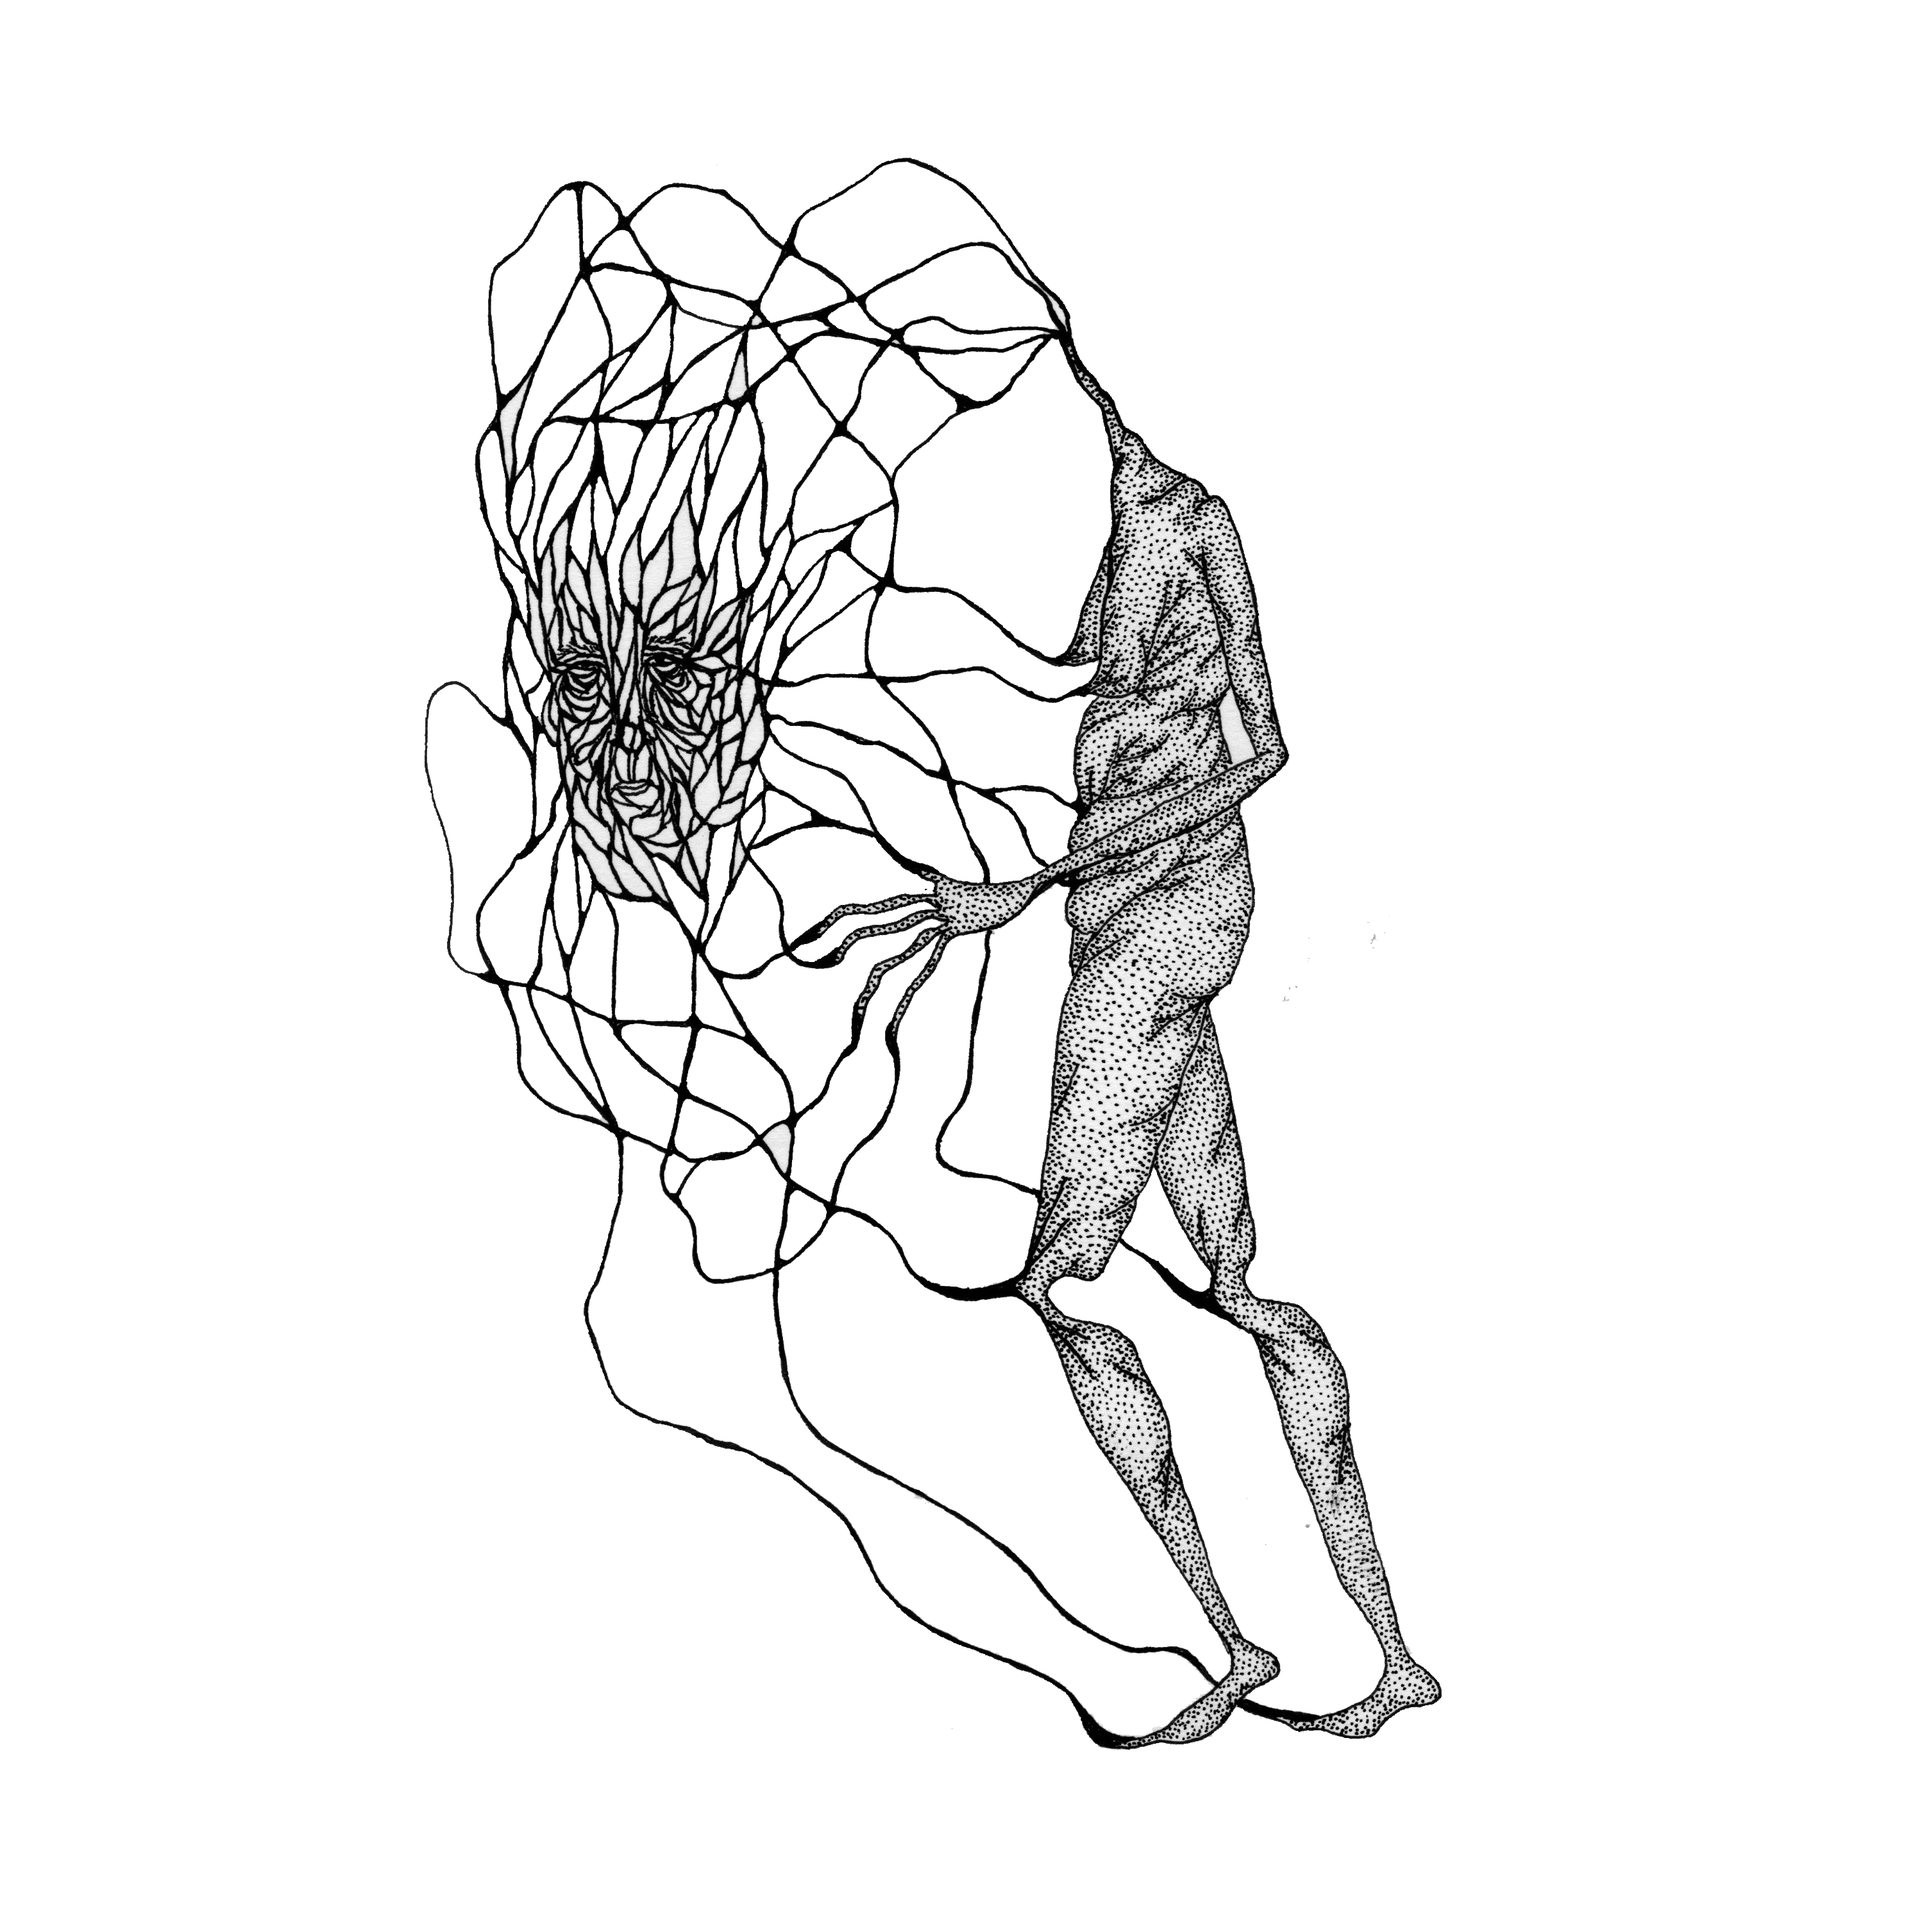
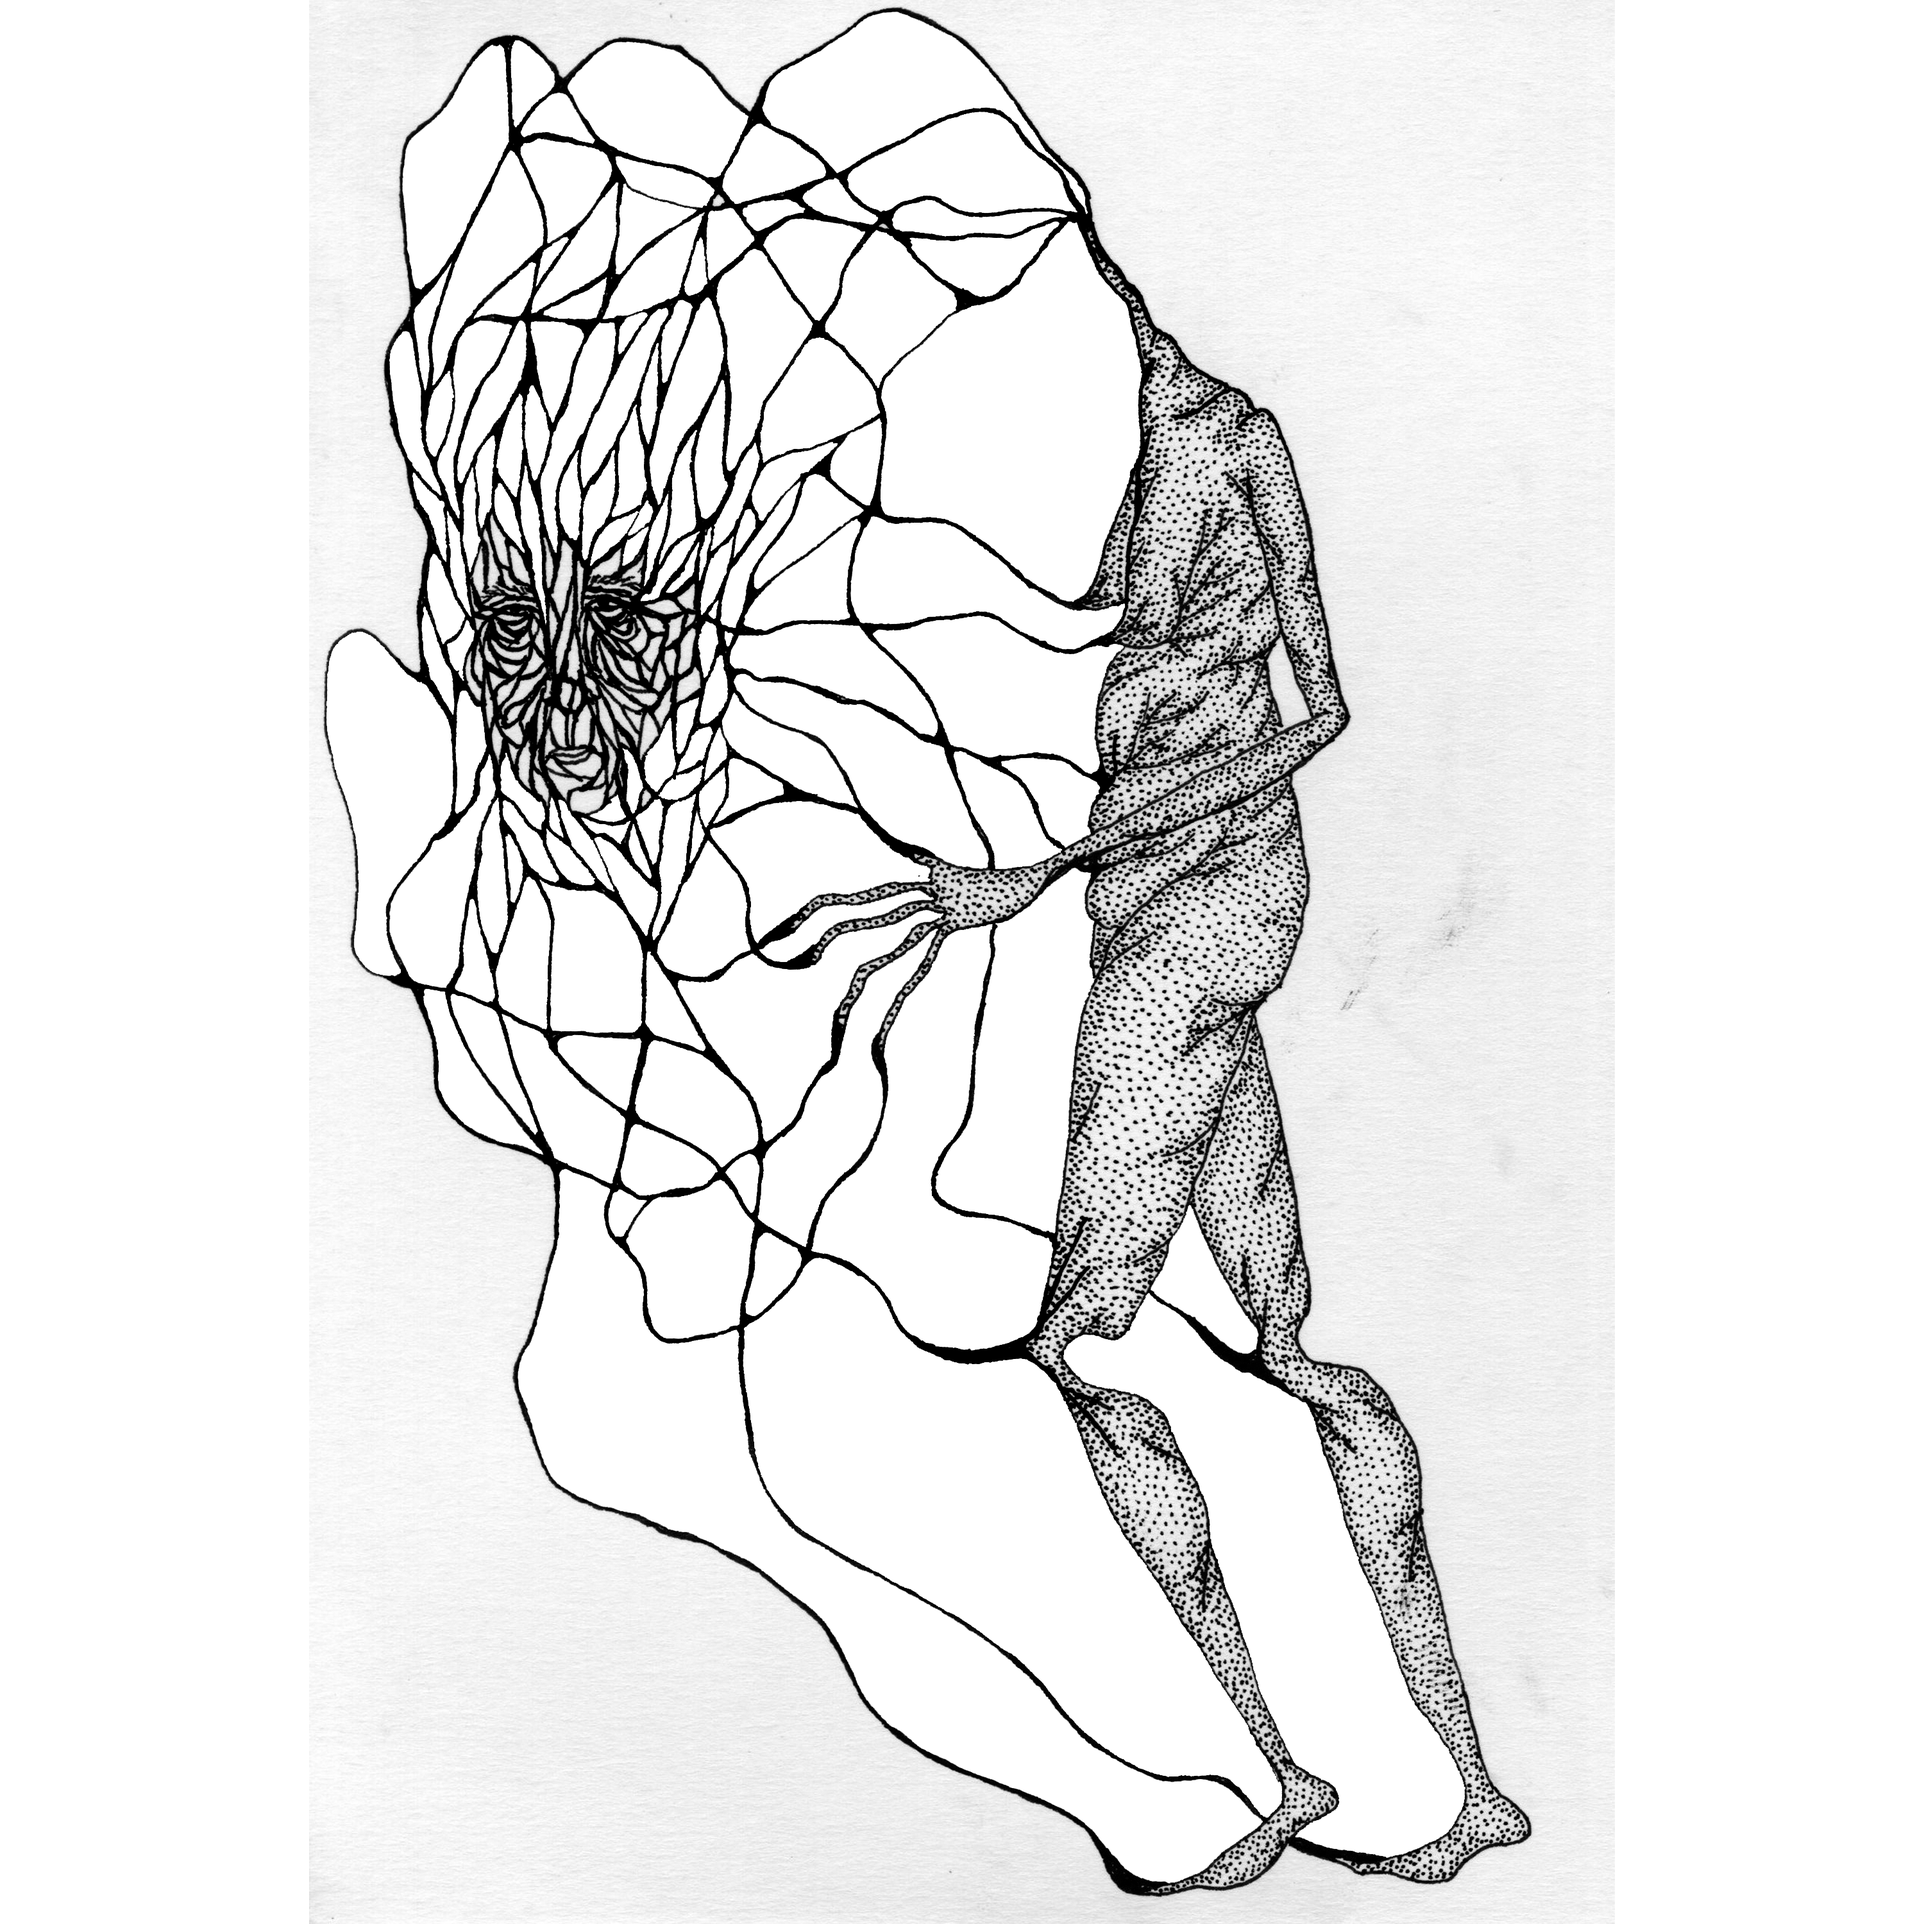
blackbordering a bit better

diff --git a/paint.js b/paint.js
@@ -5,8 +5,8 @@ let mouse = {
 window.addEventListener('mouseup', function (e) {
     mouse.x = e.x;
     mouse.y = e.y;
-    console.log(mouse.x + ", " + mouse.y);
 });
+
 var paintCanvas = document.getElementById("paint_canvas");
 var paintContext = paintCanvas.getContext("2d");
 
@@ -41,19 +41,25 @@ function floodFill(x_coord,y_coord) {
         //locate the pixel in the Uint8ClampedArray of the data object
         const index = 4*(y*paintCanvas.width+x);
         
-        if (data[index+3]==0) {
+        if (data[index+3]==0&&data[index+3]!=250) {
             //pixel is empty so the up, down, left, and right should be added
 
             //change the pixel to be colored in
             data[index] = rColor[0];
             data[index+1] = rColor[1];
             data[index+2] = rColor[2];
-            data[index+3] = 255;
+            data[index+3] = 250;
 
             if (x-1>=0){queue.push([x-1,y]);}
             if (x+1<paintCanvas.width) {queue.push([x+1, y]);}
             if (y-1>=0) {queue.push([x, y-1]);} else {console.log("nopedy")}
             if (y+1<paintCanvas.height) {queue.push([x, y+1]);} else {console.log("nope")}
+        } 
+        else if (data[index+3]!=250) {
+            data[index] = 0;
+            data[index+1] = 0;
+            data[index+2] = 0;
+            data[index+3] = 255;
         }
     }
 

diff --git a/paint.html b/paint.html
@@ -9,7 +9,7 @@
 <body>
     <div id="main_wrapper">
         <div style="display:none;">
-            <img id="paint_image" src="assets/stained-glass.png"/>
+            <img id="paint_image" src="assets/stained-glass-1000px.png"/>
         </div>
         <canvas id="paint_canvas" width="1000" height="1000" style="border:1px solid #000000;"></canvas>
     </div>
